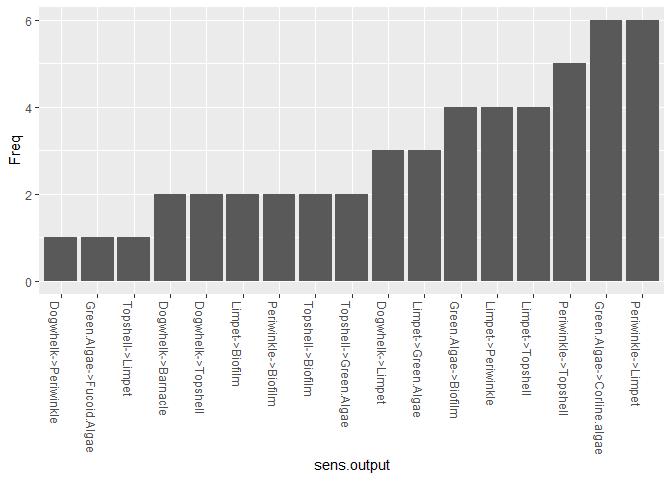
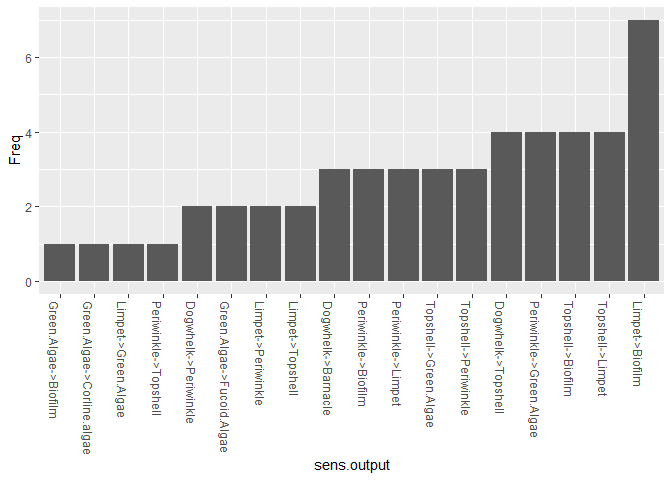
First version v1.0

diff --git a/README.html b/README.html
@@ -785,7 +785,7 @@ columns then rows)</p>
 figures.</p>
 <p><em>Example</em></p>
 <div class="sourceCode" id="cb5"><pre class="sourceCode r"><code class="sourceCode r"><span id="cb5-1"><a href="#cb5-1" tabindex="-1"></a><span class="fu">bbn.predict</span>(<span class="at">bbn.model =</span> my_BBN, <span class="at">priors1 =</span> dogwhelk, <span class="at">priors2 =</span> winkle, <span class="at">priors3=</span> combined, <span class="at">figure =</span> <span class="dv">2</span>, <span class="at">boot_max =</span> <span class="dv">100</span>, <span class="at">values =</span> <span class="dv">0</span>, <span class="at">font.size =</span> <span class="dv">7</span>)</span></code></pre></div>
[2 lines of base64/hex data omitted]
 
 <h2 id="visualising-changes-over-time">Visualising changes over
 time</h2>
@@ -1021,24 +1021,27 @@ size = 1000 - 10000 - note, this can take a long time to run. Default
 value is 1000.</p>
 <p><em>Example use and interpretation</em></p>
 <div class="sourceCode" id="cb21"><pre class="sourceCode r"><code class="sourceCode r"><span id="cb21-1"><a href="#cb21-1" tabindex="-1"></a><span class="fu">bbn.sensitivity</span>(<span class="at">bbn.model =</span> my_BBN, <span class="at">boot_max =</span> <span class="dv">100</span>, <span class="st">&#39;Limpet&#39;</span>, <span class="st">&#39;Green Algae&#39;</span>)</span></code></pre></div>
[2 lines of base64/hex data omitted]
 
 <pre><code>#&gt;                   sens.output Freq
-#&gt; 1     Periwinkle-&gt;Green.Algae    1
-#&gt; 2        Topshell-&gt;Periwinkle    1
-#&gt; 3          Dogwhelk-&gt;Barnacle    2
-#&gt; 4            Limpet-&gt;Topshell    2
-#&gt; 5  Green.Algae-&gt;Corline.algae    3
-#&gt; 6             Limpet-&gt;Biofilm    3
-#&gt; 7         Periwinkle-&gt;Biofilm    3
-#&gt; 8        Periwinkle-&gt;Topshell    3
-#&gt; 9            Topshell-&gt;Limpet    3
-#&gt; 10       Green.Algae-&gt;Biofilm    4
-#&gt; 11        Limpet-&gt;Green.Algae    4
-#&gt; 12         Periwinkle-&gt;Limpet    4
-#&gt; 13          Topshell-&gt;Biofilm    5
-#&gt; 14      Topshell-&gt;Green.Algae    5
-#&gt; 15         Limpet-&gt;Periwinkle    7</code></pre>
+#&gt; 1        Dogwhelk-&gt;Periwinkle    1
+#&gt; 2        Periwinkle-&gt;Topshell    1
+#&gt; 3       Topshell-&gt;Green.Algae    1
+#&gt; 4          Dogwhelk-&gt;Barnacle    2
+#&gt; 5            Dogwhelk-&gt;Limpet    2
+#&gt; 6          Dogwhelk-&gt;Topshell    2
+#&gt; 7        Green.Algae-&gt;Biofilm    2
+#&gt; 8             Limpet-&gt;Biofilm    2
+#&gt; 9         Limpet-&gt;Green.Algae    2
+#&gt; 10        Periwinkle-&gt;Biofilm    2
+#&gt; 11         Periwinkle-&gt;Limpet    3
+#&gt; 12          Topshell-&gt;Biofilm    3
+#&gt; 13           Topshell-&gt;Limpet    3
+#&gt; 14 Green.Algae-&gt;Corline.algae    4
+#&gt; 15    Periwinkle-&gt;Green.Algae    4
+#&gt; 16           Limpet-&gt;Topshell    5
+#&gt; 17       Topshell-&gt;Periwinkle    5
+#&gt; 18         Limpet-&gt;Periwinkle    6</code></pre>
 <p>The function works by bootstrapping with multiple changes to prior
 values and interaction strengths in the network. The frequency shows the
 number of times a modified interaction shows up as important in causing
@@ -1119,7 +1122,7 @@ bbn.network.diagram(bbn.network = my_network, font.size = 0.7, arrow.size = 2, a
 
 <pre><code>#&gt; NULL
 bbn.network.diagram(bbn.network = my_network, font.size = 0.7, arrow.size = 2, arrange = layout.random)</code></pre>
[2 lines of base64/hex data omitted]
 
 <pre><code>#&gt; NULL
 bbn.network.diagram(bbn.network = my_network, font.size = 0.7, arrow.size = 2, arrange = layout.circle)</code></pre>
@@ -1135,7 +1138,7 @@ repository</a>.</p>
 hesitate to cite the package (in addition to the papers) as an
 acknowledgement for the time spent in writing the package and this
 tutorial. Like all R packages, to know how to cite it, type: Stafford R,
-Dominguez Almela V (2024). bbnet: Create simple predictive models in
+Dominguez Almela V (2024). BBNet: Create simple predictive models in
 ecology, conservation and environmental policy based on Bayesian belief
 networks_. R package version 0.1.0, <a href="https://github.com/vda1r22/bbnet">https://github.com/vda1r22/bbnet</a>.</p>
 

diff --git a/README.md b/README.md
@@ -37,7 +37,7 @@ coverage](https://codecov.io/gh/vda1r22/bbnet/branch/main/graph/badge.svg)](http
 
 # Introduction
 
-The bbnet R package provides a comprehensive suite of tools for
+The BBNet R package provides a comprehensive suite of tools for
 building, visualising, and analysing Bayesian Belief Networks.
 
 It aims to facilitate decision-making by enabling users to model complex
@@ -48,7 +48,7 @@ practitioners.
 
 # Installation
 
-You can install the development version of bbnet from
+You can install the development version of BBNet from
 [GitHub](https://github.com/) with:
 
 ``` r
@@ -64,7 +64,7 @@ install.packages("bbnet")
 With the exception of the bbn.network.diagram() function, all functions
 require a network model in the format below. It is easiest to read these
 into the R environment from a csv file. For this example, we will open
-the Rocky Shore model which comes as an example dataset within the bbnet
+the Rocky Shore model which comes as an example dataset within the BBNet
 package.
 
 ``` r
@@ -518,23 +518,24 @@ bbn.sensitivity(bbn.model = my_BBN, boot_max = 100, 'Limpet', 'Green Algae')
 <img src="man/figures/README-unnamed-chunk-8-1.png" width="100%" />
 
     #>                   sens.output Freq
-    #> 1        Dogwhelk->Periwinkle    1
-    #> 2   Green.Algae->Fucoid.Algae    1
-    #> 3            Topshell->Limpet    1
-    #> 4          Dogwhelk->Barnacle    2
-    #> 5          Dogwhelk->Topshell    2
-    #> 6             Limpet->Biofilm    2
-    #> 7         Periwinkle->Biofilm    2
-    #> 8           Topshell->Biofilm    2
-    #> 9       Topshell->Green.Algae    2
-    #> 10           Dogwhelk->Limpet    3
-    #> 11        Limpet->Green.Algae    3
-    #> 12       Green.Algae->Biofilm    4
-    #> 13         Limpet->Periwinkle    4
-    #> 14           Limpet->Topshell    4
-    #> 15       Periwinkle->Topshell    5
-    #> 16 Green.Algae->Corline.algae    6
-    #> 17         Periwinkle->Limpet    6
+    #> 1        Green.Algae->Biofilm    1
+    #> 2  Green.Algae->Corline.algae    1
+    #> 3         Limpet->Green.Algae    1
+    #> 4        Periwinkle->Topshell    1
+    #> 5        Dogwhelk->Periwinkle    2
+    #> 6   Green.Algae->Fucoid.Algae    2
+    #> 7          Limpet->Periwinkle    2
+    #> 8            Limpet->Topshell    2
+    #> 9          Dogwhelk->Barnacle    3
+    #> 10        Periwinkle->Biofilm    3
+    #> 11         Periwinkle->Limpet    3
+    #> 12      Topshell->Green.Algae    3
+    #> 13       Topshell->Periwinkle    3
+    #> 14         Dogwhelk->Topshell    4
+    #> 15    Periwinkle->Green.Algae    4
+    #> 16          Topshell->Biofilm    4
+    #> 17           Topshell->Limpet    4
+    #> 18            Limpet->Biofilm    7
 
 The function works by bootstrapping with multiple changes to prior
 values and interaction strengths in the network. The frequency shows the

diff --git a/NEWS.md b/NEWS.md
@@ -1,4 +1,6 @@
-bbnet v0.1.0 (Release date: 13 May 2024)
+# bbnet 1.0.0
+
+bbnet 1.0 (Release date: 13 May 2024)
 ==============
 
 Changes:
